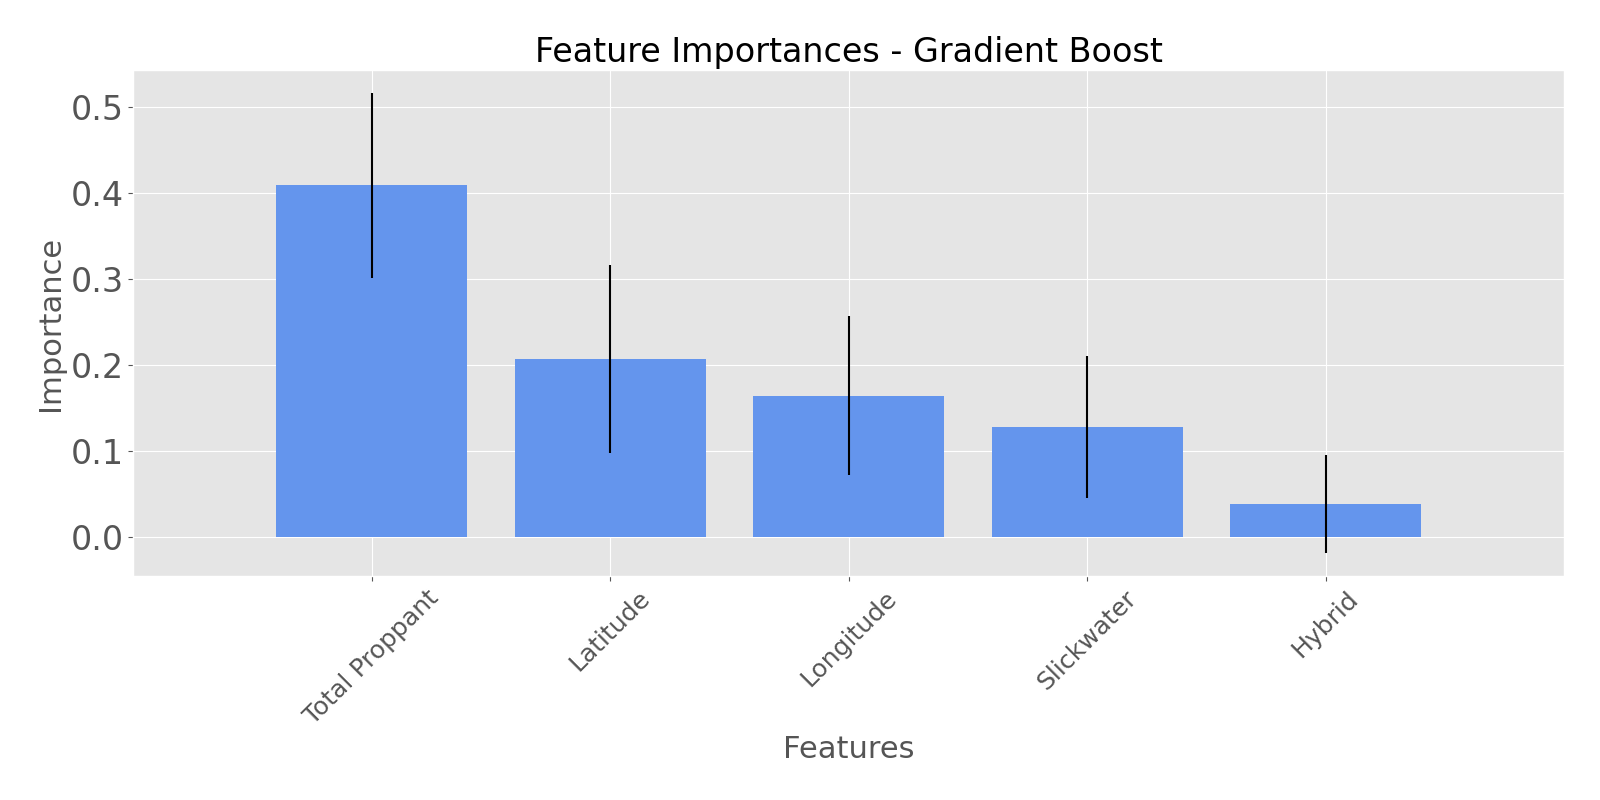
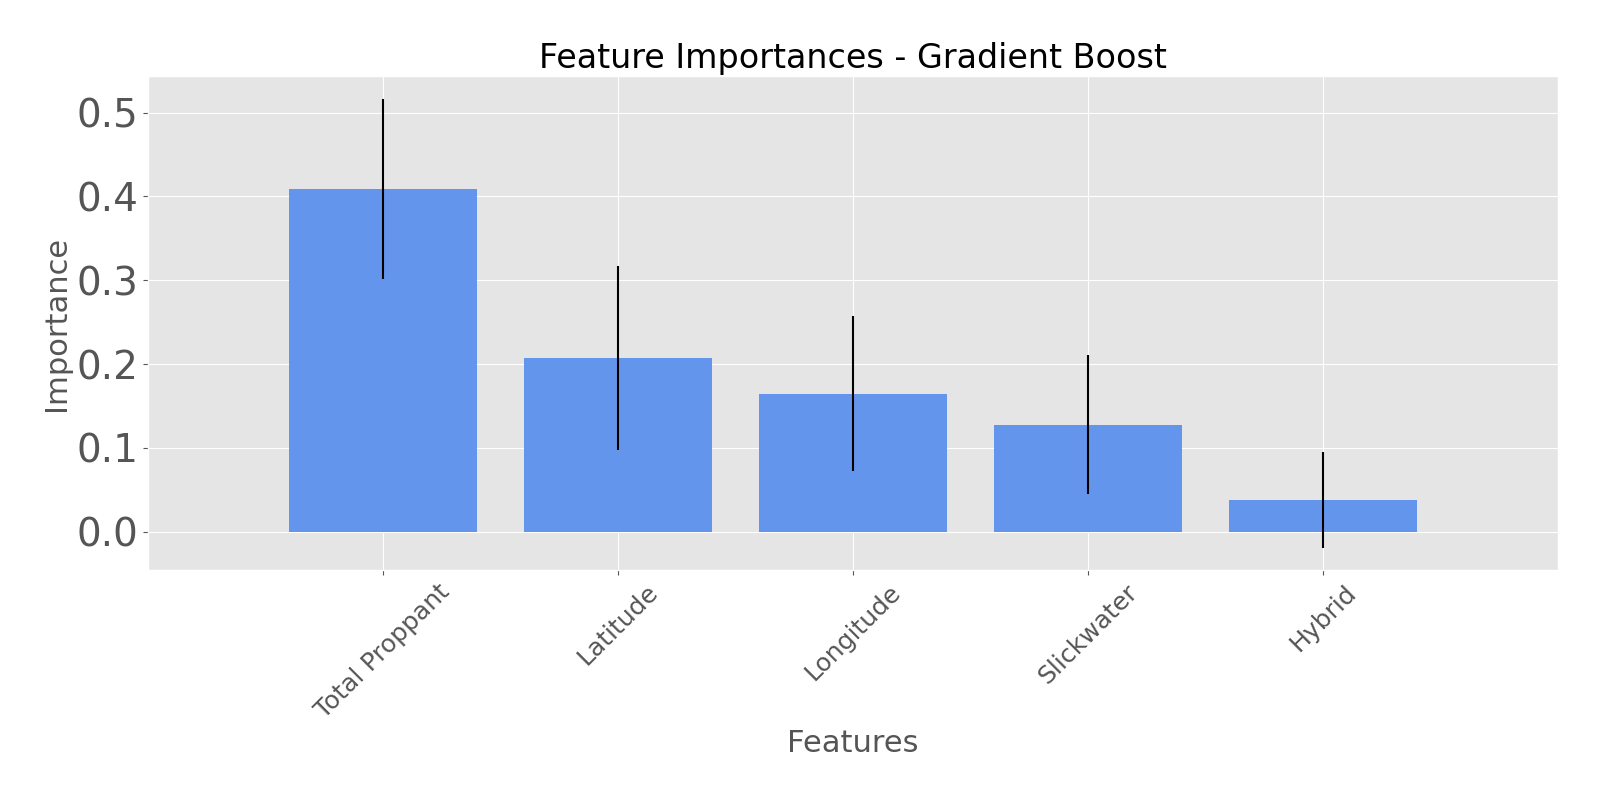
small changes again

diff --git a/src/grad_boost_analysis.py b/src/grad_boost_analysis.py
@@ -11,7 +11,7 @@ from sklearn.metrics import mean_squared_error
 from sklearn.ensemble import GradientBoostingRegressor
 from sklearn.inspection import plot_partial_dependence    
 
-plt.rcParams.update({'font.size': 18})
+plt.rcParams.update({'font.size': 28})
 
 if __name__ == '__main__':
 
@@ -53,12 +53,12 @@ if __name__ == '__main__':
     fig.tight_layout()
     plt.savefig('../images/feature_importance_gb.png')
 
-    fig, ax = plt.subplots(figsize=(28, 10))
+    fig, ax = plt.subplots(figsize=(28, 15))
     plot_partial_dependence(gradBoost, final_set, 
                             features[:number_features], 
                             line_kw={"c": "cornflowerblue"},
                             ax=ax)
-    ax.set_title("Partial Dependence - Gradient Boost", fontsize=34)
+    ax.set_title("Partial Dependence - Gradient Boost", fontsize=46)
     fig.tight_layout()
     plt.savefig('../images/partial_dependance_gb.png')
 
